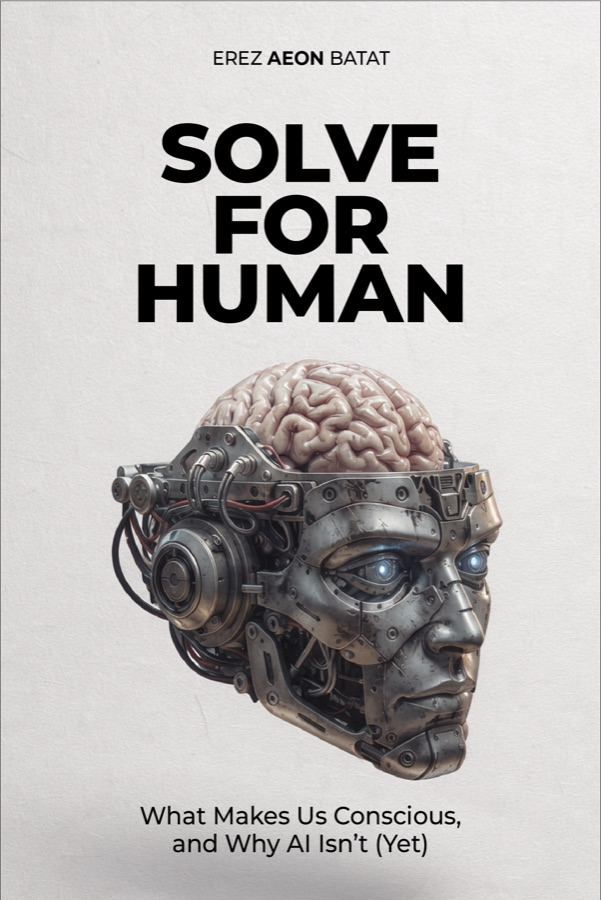
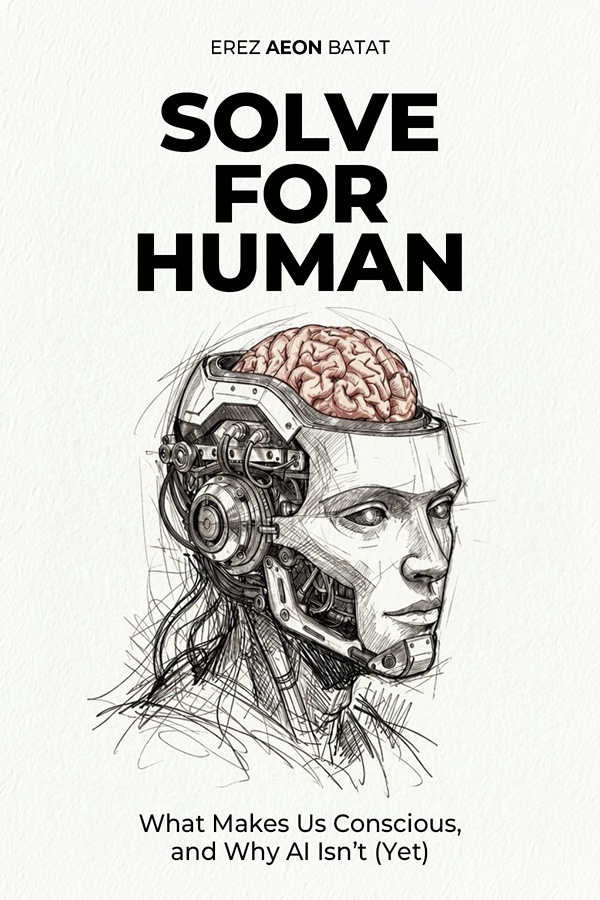
Swap in the sketch-style temporary cover

diff --git a/index.html b/index.html
@@ -157,7 +157,7 @@ footer{position:relative;z-index:1;border-top:1px solid var(--glass-line);paddin
       <div class="row"><a class="btn" href="#book" data-go="book">Discover the book</a><a class="btn ghost" href="map-your-mind.html">Map your own mind</a></div>
     </div>
     <div class="book-stage" aria-label="Book cover, placeholder design">
-      <div class="book"><div class="spine"></div><div class="front"><img class="coverimg" src="cover.jpg" alt="Solve for Human: What Makes Us Conscious, and Why AI Isn't (Yet), by Erez Aeon Batat" width="900" height="1346"></div></div>
+      <div class="book"><div class="spine"></div><div class="front"><img class="coverimg" src="cover.jpg?v=2" alt="Solve for Human: What Makes Us Conscious, and Why AI Isn't (Yet), by Erez Aeon Batat" width="900" height="1350"></div></div>
     </div>
   </div>
   <div class="ticker" aria-label="Facts">
@@ -203,7 +203,7 @@ footer{position:relative;z-index:1;border-top:1px solid var(--glass-line);paddin
 <!-- BOOK -->
 <section class="page" id="p-book" hidden>
   <div class="split">
-    <div class="book-stage"><div class="book"><div class="spine"></div><div class="front"><img class="coverimg" src="cover.jpg" alt="Solve for Human: What Makes Us Conscious, and Why AI Isn't (Yet), by Erez Aeon Batat" width="900" height="1346"></div></div></div>
+    <div class="book-stage"><div class="book"><div class="spine"></div><div class="front"><img class="coverimg" src="cover.jpg?v=2" alt="Solve for Human: What Makes Us Conscious, and Why AI Isn't (Yet), by Erez Aeon Batat" width="900" height="1350"></div></div></div>
     <div class="stack reveal">
       <span class="eyebrow">The book · forthcoming</span>
       <h1>Solve for Human</h1>
